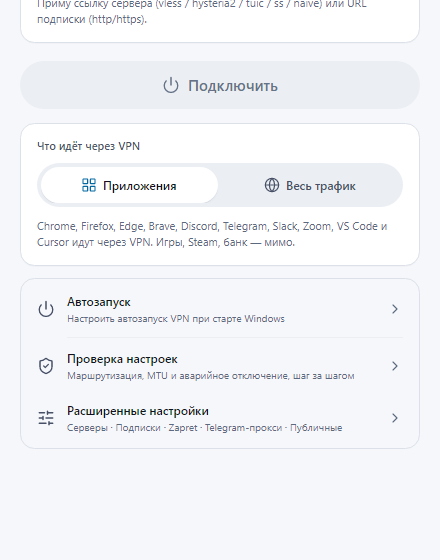
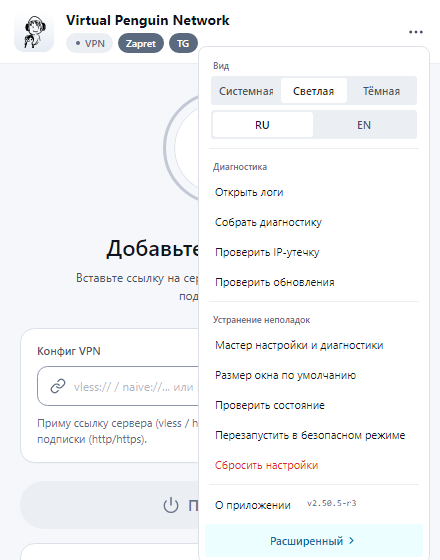
fix: refresh help guides for three-dot menu and populated public results

diff --git a/lib/guides.ts b/lib/guides.ts
@@ -104,11 +104,20 @@ export const GUIDES: Guide[] = [
       ),
       step(
         "apps",
-        "advanced",
-        { ru: "Откройте «Расширенные настройки»", en: "Open “Advanced settings”" },
+        "menu",
+        { ru: "Откройте меню с тремя точками", en: "Open the three-dot menu" },
         {
-          ru: "Это строка внизу главного экрана.",
-          en: "It is the row at the bottom of the home screen.",
+          ru: "Кнопка находится справа вверху окна.",
+          en: "The button is at the top right of the window.",
+        },
+      ),
+      step(
+        "apps",
+        "advanced",
+        { ru: "Нажмите «Расширенный»", en: "Press “Advanced”" },
+        {
+          ru: "Кнопка внизу открытого меню покажет все настройки.",
+          en: "The button at the bottom of the open menu shows all settings.",
         },
       ),
       step(
@@ -147,11 +156,20 @@ export const GUIDES: Guide[] = [
     steps: [
       step(
         "free",
-        "advanced",
-        { ru: "Откройте «Расширенные настройки»", en: "Open “Advanced settings”" },
+        "menu",
+        { ru: "Откройте меню с тремя точками", en: "Open the three-dot menu" },
         {
-          ru: "Это строка внизу главного экрана.",
-          en: "It is the row at the bottom of the home screen.",
+          ru: "Кнопка находится справа вверху окна.",
+          en: "The button is at the top right of the window.",
+        },
+      ),
+      step(
+        "free",
+        "advanced",
+        { ru: "Нажмите «Расширенный»", en: "Press “Advanced”" },
+        {
+          ru: "Кнопка внизу открытого меню покажет все настройки.",
+          en: "The button at the bottom of the open menu shows all settings.",
         },
       ),
       step(
@@ -177,8 +195,8 @@ export const GUIDES: Guide[] = [
         "connect",
         { ru: "Выберите сервер и нажмите «Подключить»", en: "Pick a server and press “Connect”" },
         {
-          ru: "Эти серверы держат посторонние люди. Для важных дел лучше VPN-сервис, которому вы доверяете.",
-          en: "These servers are run by third parties. For anything important, use a VPN service you trust.",
+          ru: "На примере показаны тестовые адреса. У вас появятся найденные серверы. Их держат посторонние люди: для важных дел лучше VPN-сервис, которому вы доверяете.",
+          en: "The picture uses example addresses. Your results will show the servers found. They are run by third parties: for anything important, use a VPN service you trust.",
         },
       ),
     ],

diff --git a/scripts/guide_frames.py b/scripts/guide_frames.py
@@ -36,7 +36,8 @@ def L(ru, en):
 
 # A spot is a list of (control type, label) pairs; the highlight is the box around all of them.
 CONNECT = [("Button", L("Подключить", "Connect"))]
-ADVANCED = [("Button", L("Расширенные настройки", "Advanced settings"))]
+MENU = [("Button", L("icon:more-horizontal", "icon:more-horizontal"))]
+ADVANCED = [("Button", L("Расширенный", "Advanced"))]
 
 GUIDES = {
     "first-run": [
@@ -51,7 +52,9 @@ GUIDES = {
     "apps": [
         dict(id="mode", surface="window-simple", scenario="connected", height=800, crop="top",
              spot=[("RadioButton", L("Приложения", "Selected apps")), ("RadioButton", L("Весь трафик", "All traffic"))]),
-        dict(id="advanced", surface="window-simple", scenario="connected", height=800, crop="bottom", spot=ADVANCED),
+        dict(id="menu", surface="window-simple", scenario="connected", height=800, crop="top", spot=MENU),
+        dict(id="advanced", surface="window-simple", scenario="connected", height=800, crop="top",
+             steps=L(["icon:more-horizontal"], ["icon:more-horizontal"]), spot=ADVANCED),
         dict(id="tab", surface="window-advanced", scenario="connected", height=800, crop="top",
              steps=L(["Приложения"], ["Applications"]),
              spot=[("ListBoxItem", L("Приложения", "Applications"))]),
@@ -63,13 +66,15 @@ GUIDES = {
              spot=[("Button", L("Обзор...", "Browse...")), ("Button", L("Запущенные", "Running"))]),
     ],
     "free": [
-        dict(id="advanced", surface="window-simple", scenario="default", height=980, crop="bottom", spot=ADVANCED),
+        dict(id="menu", surface="window-simple", scenario="default", height=980, crop="top", spot=MENU),
+        dict(id="advanced", surface="window-simple", scenario="default", height=980, crop="top",
+             steps=L(["icon:more-horizontal"], ["icon:more-horizontal"]), spot=ADVANCED),
         dict(id="tab", surface="window-advanced", scenario="default", height=800, crop="top",
              steps=L(["Публичные"], ["Public"]), spot=[("ListBoxItem", L("Публичные", "Public"))]),
         dict(id="find", surface="window-advanced", scenario="default", height=800, crop="top",
              steps=L(["Публичные"], ["Public"]),
              spot=[("Button", L("Найти рабочие конфиги", "Find working configs"))]),
-        dict(id="connect", surface="window-advanced", scenario="default", height=800, crop="bottom",
+        dict(id="connect", surface="window-advanced", scenario="free-results", height=800, crop="bottom",
              steps=L(["Публичные"], ["Public"]), spot=CONNECT),
     ],
 }

diff --git a/HELP-GUIDES-2026-10-19.md b/HELP-GUIDES-2026-10-19.md
@@ -1,0 +1,18 @@
+# Help guides update - 2026-10-19
+
+Owner request: align the website animations with the current app's three-dot
+menu, and fix the final public-server frame showing no results and a disabled
+Connect button. Live site currently serves 50d2399f at ninitux.com; the
+vpn.ninitux.com root is the separate static install page, not the guide player.
+
+Scope: regenerate both-language frames from current Windows UI, show menu then
+Advanced mode, and show offline sample public results before Connect. Update
+bilingual captions, cursor positions and browser checks. Preserve visual design,
+mascot, stable download version and original checkout/index.
+
+Verification: Python renderer check, lint/types/production build/browser CI,
+visual inspection of menu and final frame, public deployment exact-SHA and smoke.
+Rollback: previous production directory/image. Changes and deploy are explicitly
+requested; no default-branch migration or unrelated repository merge.
+
+Outcome pending.
